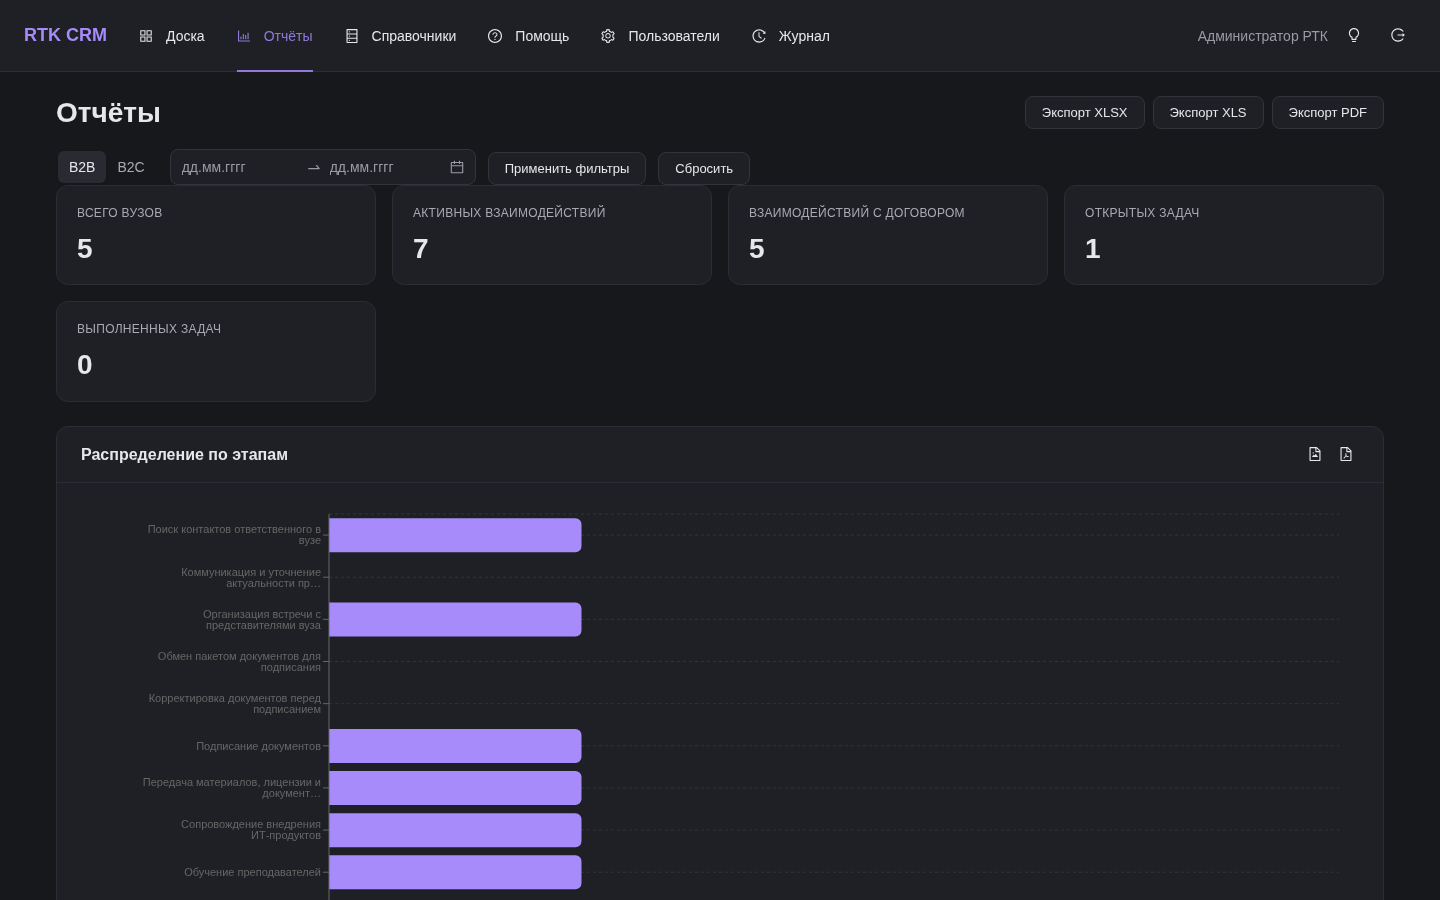
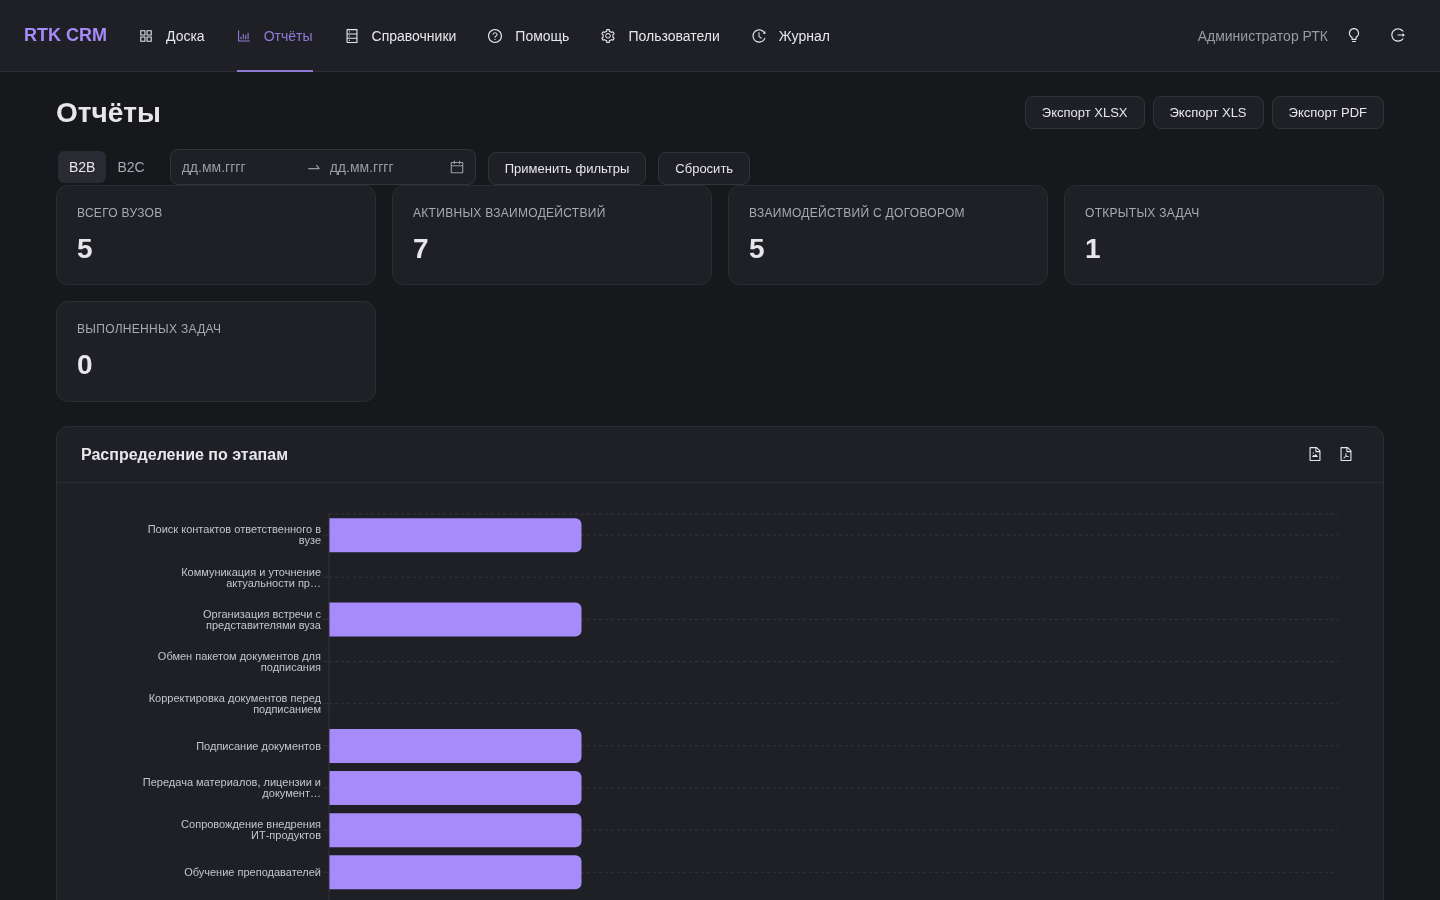
docs(images): мобильные скриншоты и надёжное снятие баннера cookie
Добавлены наборы снимков для мобильного вида в светлой и тёмной темах,
структура приведена к виду docs/images/mobile/[dark/]. Скрипт съёмки
предустанавливает согласие на cookie, чтобы баннер не перехватывал
клики по элементам страницы. Обновлены разделы иллюстраций.

diff --git a/frontend/src/pages/ReportPage.tsx b/frontend/src/pages/ReportPage.tsx
@@ -34,6 +34,21 @@ const RADIAN = Math.PI / 180;
 // Сектора уже 5% слишком тонкие для подписи внутри — выносим их с выноской.
 const SMALL_SLICE = 0.05;
 
+// Recharts подставляет собственные цвета осей (#666), не зная о теме: на
+// тёмном фоне это 2.83:1. Задаём цвет явно токеном для обеих тем.
+const AXIS_TICK = { fill: 'var(--atmr-fg-subtle)' } as const;
+const AXIS_TICK_SMALL = { fill: 'var(--atmr-fg-subtle)', fontSize: 10 } as const;
+
+// Тултип recharts по умолчанию — светлая карточка с тёмным текстом: на
+// тёмной теме выпадал из палитры и слепил. Берём поверхности и текст темы.
+const TOOLTIP_STYLE = {
+  fontSize: 12,
+  borderRadius: 8,
+  background: 'var(--atmr-bg-elevated)',
+  border: '1px solid var(--atmr-border-default)',
+  color: 'var(--atmr-fg-default)',
+} as const;
+
 function ProductSliceLabel({
   cx = 0, cy = 0, midAngle, innerRadius = 0, outerRadius = 0, percent, compact,
 }: {
@@ -293,30 +308,37 @@ export default function ReportPage() {
                   horizontal
                   vertical={false}
                 />
-                <XAxis type="number" allowDecimals={false} />
+                <XAxis
+                  type="number"
+                  allowDecimals={false}
+                  tick={AXIS_TICK_SMALL}
+                  stroke="var(--atmr-border-default)"
+                />
                 <YAxis
                   type="category"
                   dataKey="name"
-                  width={240}
-                  tick={{ fontSize: 12 }}
+                  width={isMobile ? 132 : 240}
+                  tick={{ ...AXIS_TICK, fontSize: 12 }}
+                  stroke="var(--atmr-border-default)"
+                  interval={0}
                   tickFormatter={(value: string) =>
-                    value.length > (isMobile ? 25 : 42)
-                      ? `${value.slice(0, isMobile ? 23 : 40)}…`
+                    value.length > (isMobile ? 16 : 42)
+                      ? `${value.slice(0, isMobile ? 14 : 40)}…`
                       : value
                   }
                 />
                 <Tooltip
-                  contentStyle={{ fontSize: 12, borderRadius: 8 }}
+                  contentStyle={TOOLTIP_STYLE}
                   labelFormatter={(label) => String(label)}
                   formatter={(value) => [
                     Number(value ?? 0),
                     'Взаимодействий',
                   ]}
                 />
-                <Bar 
-                  dataKey="count" 
+                <Bar
+                  dataKey="count"
                   fill="var(--atmr-accent-default)"
-                  radius={isMobile ? [6, 6, 0, 0] : [0, 6, 6, 0]} 
+                  radius={isMobile ? [6, 6, 0, 0] : [0, 6, 6, 0]}
                 />
               </BarChart>
             </ResponsiveContainer>
@@ -372,6 +394,7 @@ export default function ReportPage() {
                     ))}
                   </Pie>
                   <Tooltip
+                    contentStyle={TOOLTIP_STYLE}
                     formatter={(value) => {
                       const n = Number(value);
                       const pct = productTotal
@@ -434,12 +457,20 @@ export default function ReportPage() {
                   <CartesianGrid strokeDasharray="3 3" stroke="var(--atmr-border-default)" />
                   <XAxis
                     dataKey="date"
-                    tick={{ fontSize: isMobile ? 10 : 11 }}
+                    tick={{ ...AXIS_TICK, fontSize: isMobile ? 10 : 11 }}
+                    stroke="var(--atmr-border-default)"
                     tickFormatter={(v) => v?.slice(5) || ''}
                     minTickGap={24}
                   />
-                  <YAxis tick={{ fontSize: 11 }} allowDecimals={false} />
-                  <Tooltip labelFormatter={(value) => `Дата: ${value}`} />
+                  <YAxis
+                    tick={{ ...AXIS_TICK, fontSize: 11 }}
+                    stroke="var(--atmr-border-default)"
+                    allowDecimals={false}
+                  />
+                  <Tooltip
+                    labelFormatter={(value) => `Дата: ${value}`}
+                    contentStyle={TOOLTIP_STYLE}
+                  />
                   <Line
                     type="monotone"
                     dataKey="count"

diff --git a/frontend/src/theme/theme.ts b/frontend/src/theme/theme.ts
@@ -19,6 +19,11 @@ export const atmrTokens = {
   colorError: '#CC2936',
   colorText: '#1C1D22',
   colorTextSecondary: '#6B6B72',
+  // antd по умолчанию берёт description/placeholder из чёрного с альфой:
+  // rgba(0,0,0,.45) даёт 3.35:1, rgba(0,0,0,.25) — 1.83:1. Оба ниже AA,
+  // поэтому задаём плотный серый, читаемый и на белом, и на #F5F5F7.
+  colorTextDescription: '#6B6B72',
+  colorTextPlaceholder: '#6B6B72',
   colorBorder: '#E0E0E5',
   colorBorderSecondary: '#EEEEF2',
   colorBgLayout: '#F5F5F7',
@@ -107,6 +112,7 @@ export const antDarkTheme: ThemeConfig = {
     colorTextTertiary: darkPalette.textTertiary,
     colorTextQuaternary: darkPalette.textTertiary,
     colorTextPlaceholder: darkPalette.textTertiary,
+    colorTextDescription: darkPalette.textTertiary,
     colorTextLightSolid: darkPalette.onSolid,
     colorBorder: darkPalette.border,
     colorBorderSecondary: darkPalette.borderSoft,

diff --git a/frontend/src/index.css b/frontend/src/index.css
@@ -348,6 +348,20 @@ img, svg, canvas, video, table { max-width: 100%; }
   fill: var(--atmr-fg-subtle);
 }
 
+/* Пустая таблица — не disabled-контрол, а информационная подпись: antd берёт
+   для неё colorTextDisabled (rgba(0,0,0,.25) = 1.83:1). */
+.ant-table-placeholder,
+.ant-table-placeholder .ant-table-cell {
+  color: var(--atmr-fg-muted);
+}
+
+/* Своя роль в списке пользователей показана disabled-селектом: antd гасит
+   текст до rgba(0,0,0,.25). Неактивность и так видна по серому фону поля,
+   а значение должно читаться. */
+.ant-select-disabled .ant-select-selection-item {
+  color: var(--atmr-fg-muted);
+}
+
 .report-stage-chart .recharts-bar-rectangle {
   transition: opacity 0.15s ease;
 }

diff --git a/scripts/capture_screenshots.py b/scripts/capture_screenshots.py
@@ -5,7 +5,7 @@
     python scripts/capture_screenshots.py [--theme light|dark|both] [--mobile]
 
 Изображения кладутся в `docs/images/` (светлая) и `docs/images/dark/`
-(тёмная), мобильные виды — в `docs/images/mobile/`.
+(тёмная); мобильные виды — в `docs/images/mobile/` и `docs/images/mobile/dark/`.
 """
 
 from __future__ import annotations
@@ -21,6 +21,17 @@ ADMIN = ("admin@rtk.ru", "admin123")
 
 DESKTOP = {"width": 1440, "height": 900}
 MOBILE = {"width": 390, "height": 844}
+
+# Баннер cookie перекрывает нижнюю часть страницы и перехватывает клики по
+# элементам под ним. Предустанавливаем согласие в localStorage до отрисовки,
+# чтобы баннер не появлялся вовсе (иначе клик по чипу этапа на мобильном
+# падает на баннер). Ключ и версия — из frontend/src/lib/cookieConsent.ts.
+CONSENT_INIT = """
+localStorage.setItem('rtk_cookie_consent', JSON.stringify({
+  necessary: true, analytics: true, functional: true, marketing: false,
+  timestamp: Date.now(), version: '1.0',
+}));
+"""
 
 
 def apply_theme(page: Page, theme: str) -> None:
@@ -47,11 +58,18 @@ def login(page: Page, url: str) -> None:
 
 
 def dismiss_cookie_banner(page: Page) -> None:
-    """Баннер согласия перекрывает нижнюю часть экрана и ломает снимки."""
+    """Баннер согласия перекрывает нижнюю часть экрана и ломает снимки.
+    Баннер может появляться повторно (в т.ч. после перезагрузки страницы),
+    поэтому ждём его исчезновения, а не просто кликаем один раз."""
     accept = page.locator(".cookie-banner button", has_text="Принять")
-    if accept.count():
-        accept.first.click()
-        page.wait_for_timeout(300)
+    for _ in range(10):
+        if not accept.count() or not accept.first.is_visible():
+            return
+        try:
+            accept.first.click(timeout=2000)
+            page.wait_for_timeout(300)
+        except Exception:
+            page.wait_for_timeout(300)
 
 
 def shoot(page: Page, target: Path, name: str) -> None:
@@ -122,11 +140,17 @@ def capture_desktop(page: Page, theme: str, target: Path) -> None:
         shoot(page, target, name)
 
 
+def new_context(browser, viewport: dict):
+    context = browser.new_context(viewport=viewport, locale="ru-RU")
+    context.add_init_script(CONSENT_INIT)
+    return context
+
+
 def capture_login(theme: str, target: Path, viewport: dict) -> None:
     """Экран входа снимаем в чистом контексте: после логина он недоступен."""
     with sync_playwright() as p:
         browser = p.chromium.launch()
-        context = browser.new_context(viewport=viewport, locale="ru-RU")
+        context = new_context(browser, viewport)
         page = context.new_page()
         page.goto(f"{BASE_URL}/login", wait_until="networkidle")
         apply_theme(page, theme)
@@ -153,11 +177,11 @@ def main() -> int:
             target = ROOT / "docs" / "images"
             if args.mobile:
                 target = target / "mobile"
-            elif theme == "dark":
+            if theme == "dark":
                 target = target / "dark"
             target.mkdir(parents=True, exist_ok=True)
 
-            context = browser.new_context(viewport=viewport, locale="ru-RU")
+            context = new_context(browser, viewport)
             page = context.new_page()
             login(page, BASE_URL)
             if args.mobile:
@@ -186,7 +210,7 @@ def main() -> int:
         target = ROOT / "docs" / "images"
         if args.mobile:
             target = target / "mobile"
-        elif theme == "dark":
+        if theme == "dark":
             target = target / "dark"
         target.mkdir(parents=True, exist_ok=True)
         capture_login(theme, target, viewport)
